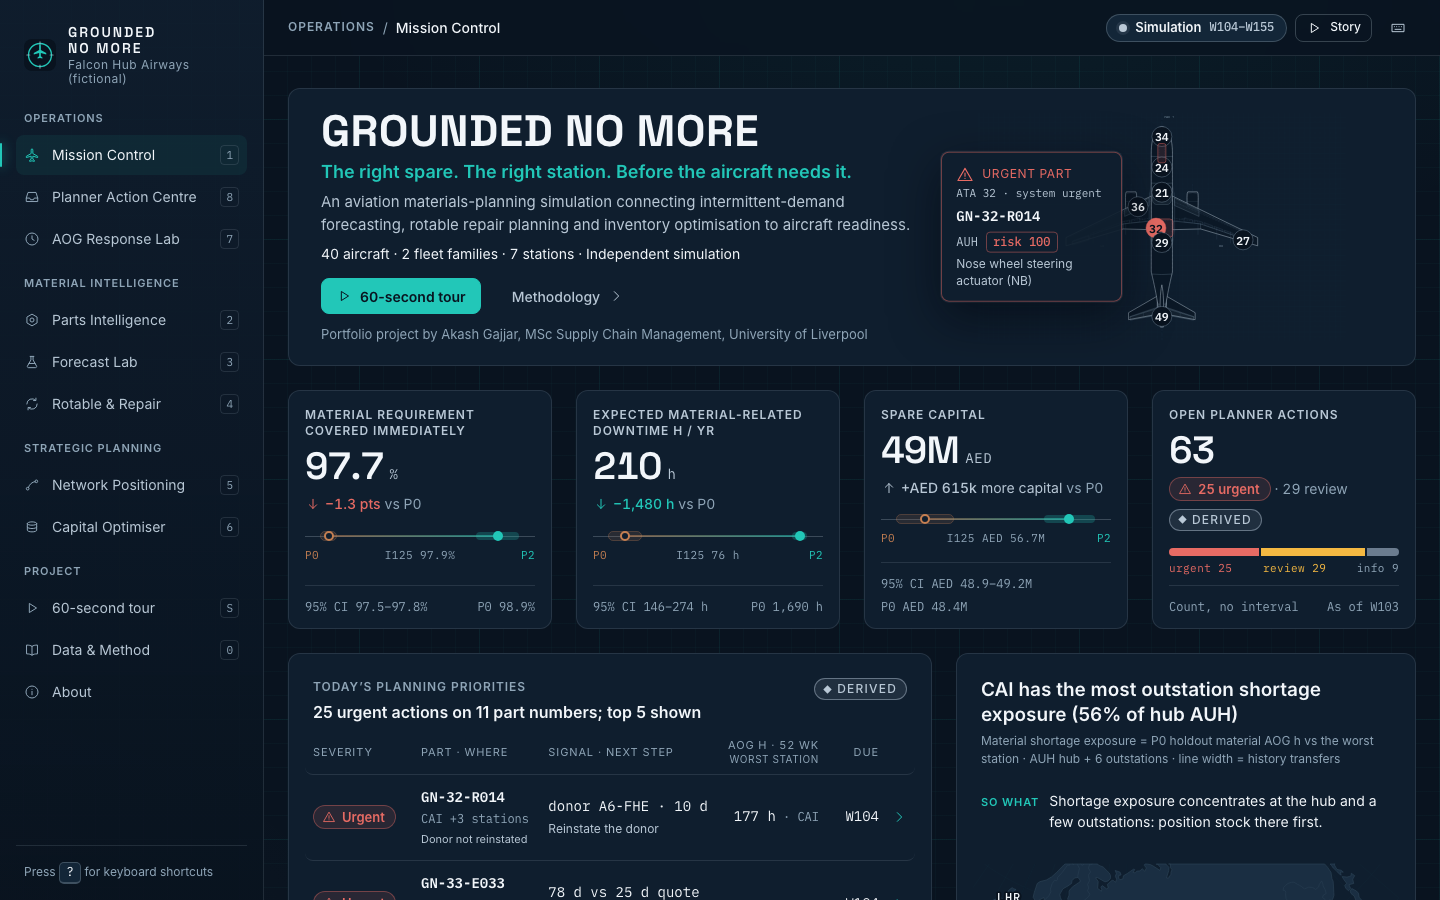
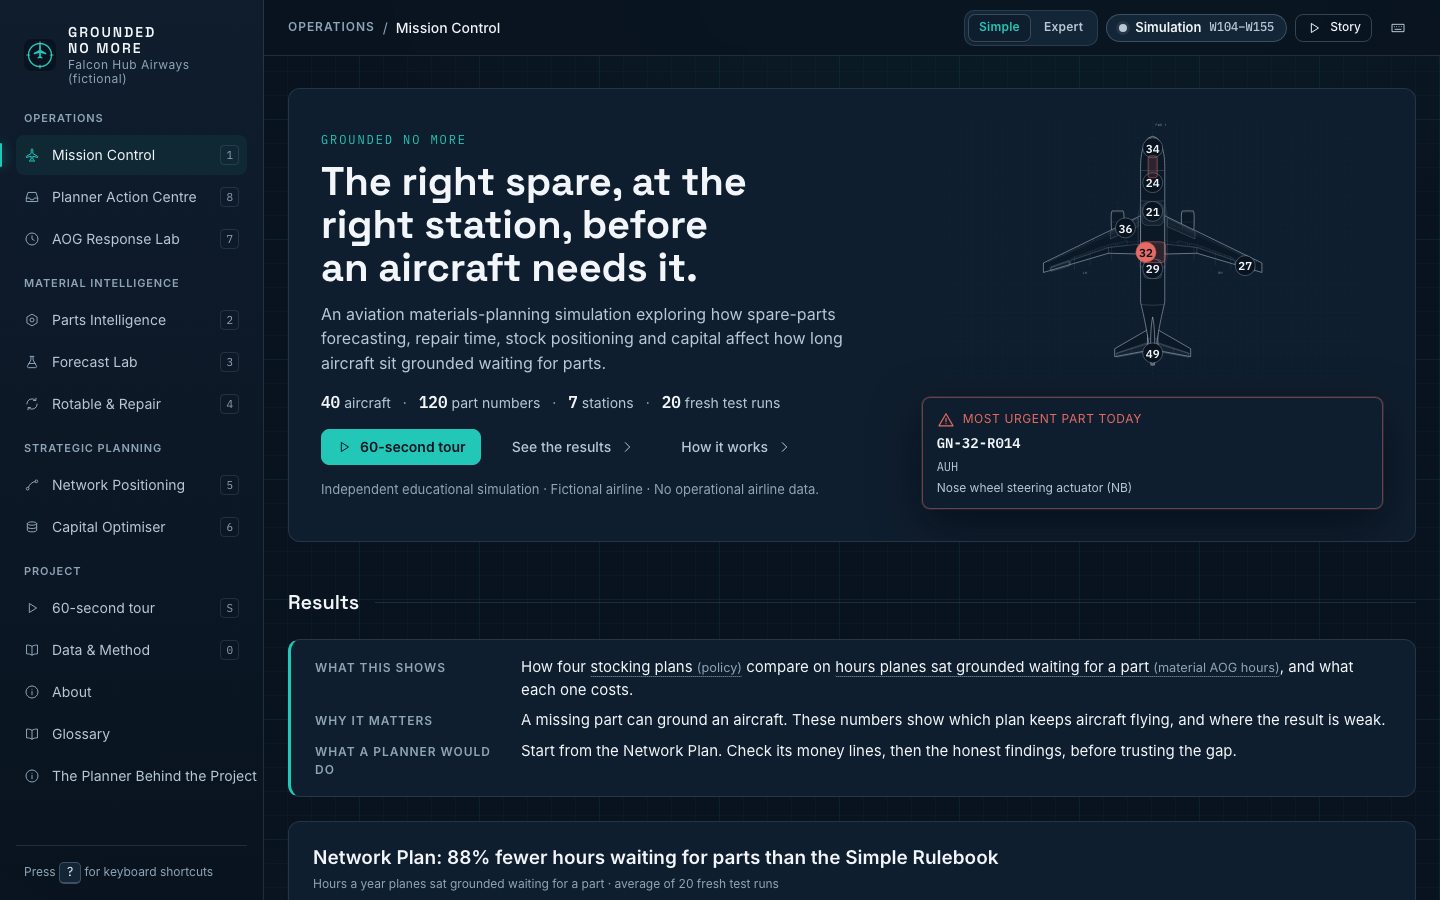
Demo re-recorded with the tour in Play mode (6/6 steps); recorder no longer pauses an already-playing tour; README hero + GIF refreshed; video untracked (V21-V)

diff --git a/scripts/record_demo.py b/scripts/record_demo.py
@@ -76,6 +76,9 @@ def n_story_steps():
 
 def tour_play(page):
     """Press the tour's own Play button (auto-advance). Falls back to the Space key, which toggles Play in the tour."""
+    st = tour_state(page)
+    if st and st.get("playing"):
+        return  # v2.1: the '60-second tour' button opens the tour already playing; pressing Play would pause it
     loc = page.locator(".story-card .story-play")
     try:
         if loc.count() and loc.first.is_visible():

diff --git a/docs/DECISIONS.md b/docs/DECISIONS.md
@@ -118,3 +118,4 @@ Every non-obvious choice, with the reasoning behind it. Newest last.
 | V21-FF | 2026-11-26 | **Firefox could not be audited in this environment.** Playwright's Firefox (v159) exits at launch with "Could not find profile folder" on this macOS build, inside and outside the sandbox and with a fresh TMPDIR. The every-button audit and live checks run in Chromium and WebKit (Safari engine). Firefox coverage is reported as "not run (environment)" rather than claimed. | Honest reporting over a three-browser claim. |
 | V21-H | 2026-11-26 | Audit harness fixes (tests/e2e/audit_lib.py), all harness artefacts rather than site bugs: (1) close the mobile navigation rail between controls; (2) open the off-canvas rail via the menu button before operating controls inside it, as a user would; (3) close an already-open drawer or modal (e.g. a deep link that opens a part drawer) before operating controls outside it; (4) scroll each control to centre so the sticky top bar can't cover it. About at 390 went from 30 failures to 1, and the part-drawer deep link from 17 to 3. | So the audit measures the site, not the harness. |
 | V21-D2 | 2026-11-26 | **Cutaway placement.** Four iteration rounds, each scored by a fresh independent critic: r1 3.0 → r2 3.4 → r3 3.70 → r4 3.60 (reports/cutaway_critique_r{1..4}.md). The mean never reached the 4.3 landing-hero bar, so the current landing hero is kept and the cutaway is linked from a new "Explore" section on the landing page (docs/lab/cutaway.html). | Release rule: hero only if mean ≥ 4.3 after up to 4 rounds. |
+| V21-V | 2026-11-26 | **Demo video kept local.** presentations/demo.webm (16.7 MB, re-recorded for v2.1 with the tour running in Play mode, all 6 steps) is no longer tracked; the repo-hygiene rule says no videos in git. Earlier versions remain in history (not rewritten, V21-R). The README hero and GIF (≈1.1 MB) stay tracked. | Repo hygiene. |
